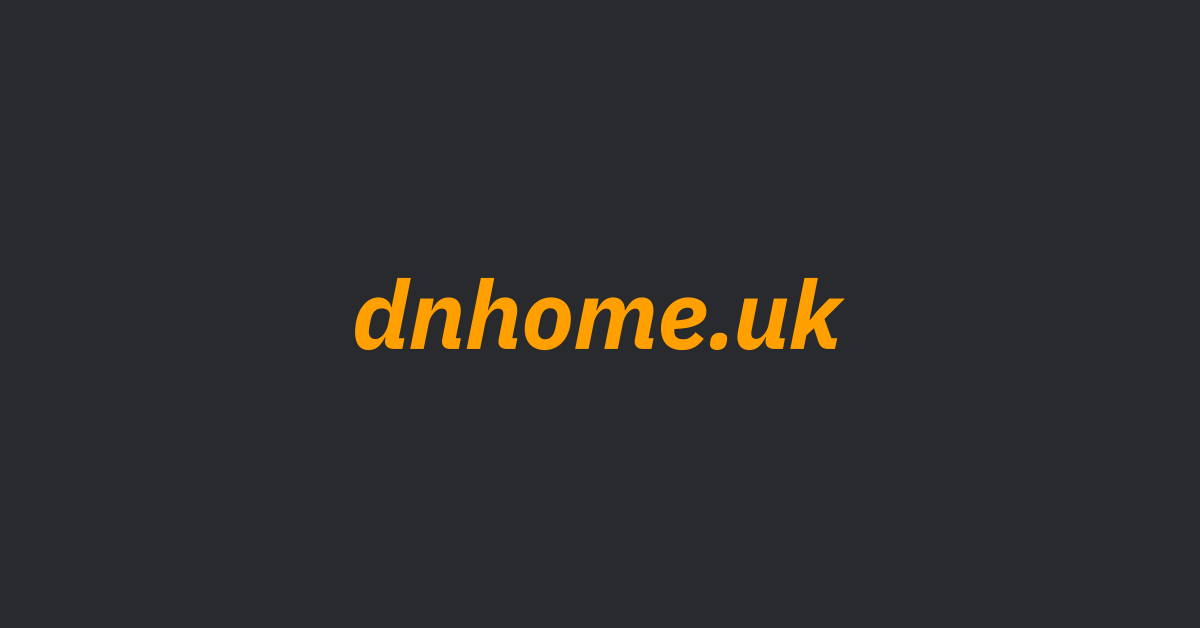
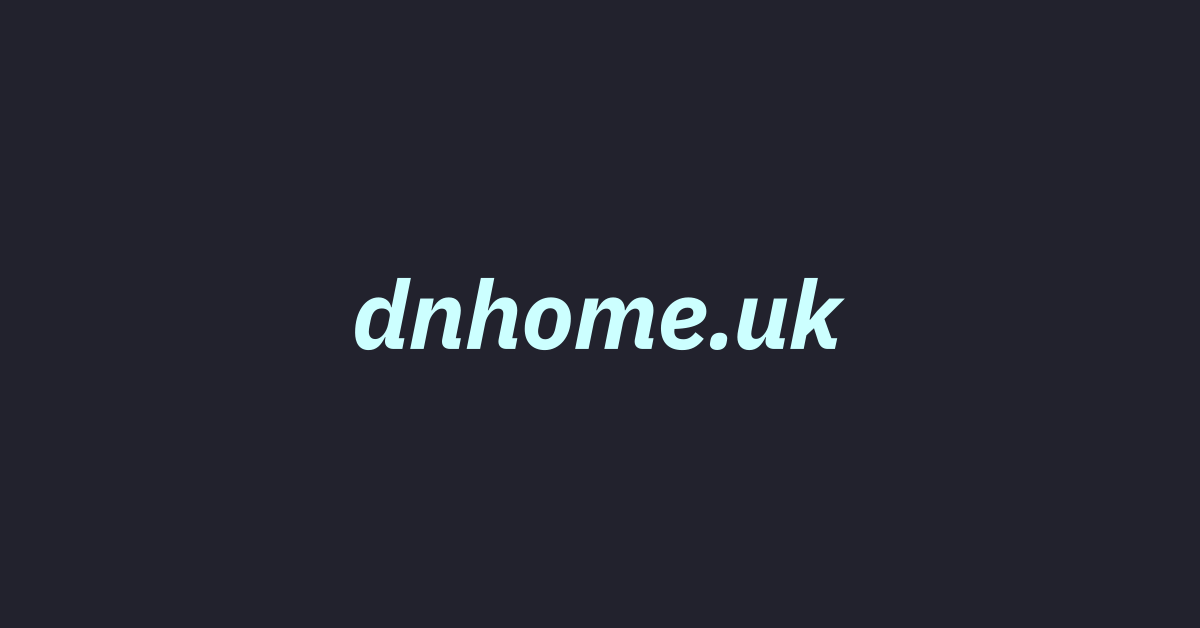
Change style

Changed region(s): [[0.2775, 0.4236, 0.7092, 0.5748]]

diff --git a/src/assets/css/style.css b/src/assets/css/style.css
@@ -1,65 +1,99 @@
 :root {
-    --bg-color: #292a2d;
-    --header-color: #fff;
-    --color: #fff;
-    --link-color: #C1CCEA;
-    --accent-color: #ffa000;
+    /* Light theme (default) */
+    --bg-color: #ccffff;
+    --header-color: #222;
+    --color: #222;
+    --selection-color: #222;
+    --selection-bg-color: #ffff99;
+}
+/* Use dark theme if browser requests it */
+@media (prefers-color-scheme: dark) {
+    :root {
+        /* Dark theme */
+        --bg-color: #222;
+        --header-color: #ccffff;
+        --color: #ccffff;
+        --selection-color: #222;
+        --selection-bg-color: #ff9999;
+    }
+}
+html,body {
+    height: 100%;
 }
 body {
     background-color: var(--bg-color);
-    font-size: 1rem;
-    font-family: sans-serif;
     color: var(--color);
-    margin: 0.5em auto;
-}
-h1,h2,h3 {
-    font-weight: bold;
-    font-style: italic;
-    margin 2em 0;
-}
-h1 {
-    color: var(--accent-color);
-    font-size: 2rem;
-}
-h2 {
-    color: var(--header-color);
-    font-size: 1.5rem;
-}
-h3 {
-    color: var(--header-color);
-    font-size: 1.2rem;
-}
-img {
-    width: 100%;
-    display: block;
-}
-a {
-    color: var(--link-color);
-}
-p {
-    color: var(--color);
-    line-height: 1.4rem;
-}
-hr {
-    border-top: 1px solid var(--color);
-    border-bottom: none;
-    width: 100%;
-    margin: 2em auto;
-}
-footer {
-    background-color: var(--bg-color);
-    position: fixed;
-    bottom: 0;
-    padding: 0.25em 0.5em;
-    font-size: 0.7rem;
+    font-size: 0.9rem;
+    font-family: sans-serif, "Apple Color Emoji", "Segoe UI Emoji", "Segoe UI Symbol", "Noto Color Emoji";
+    display: flex;
+    flex-direction: column;
+    margin: 0 auto;
+    padding: 0;
 }
 #container {
     width: 40em;
     display: block;
-    margin: auto;
+    margin: 0 auto;
+    padding: 0;
+    flex: 1 0 auto;
 }
-/* Scale elements on smaller screens to prevent side-scrolling */
-@media only screen and (max-width: 42em) {
+h1,h2,h3,h4 {
+    font-weight: bold;
+    font-style: italic;
+    color: var(--header-color);
+    margin: 0;
+    padding: 1em 0;
+}
+h1 {
+    font-size: 2.6rem;
+}
+h2 {
+    font-size: 2rem;
+}
+h3 {
+    font-size: 1.8rem;
+}
+h4 {
+    font-size: 1.4rem;
+}
+img {
+    display: block;
+    margin: auto;
+    width: 100%;
+}
+a {
+    color: var(--color);
+    text-decoration: none;
+    border-bottom: 2px dotted var(--color);
+}
+a:hover {
+    background-color: var(--selection-bg-color);
+    color: var(--selection-color);
+    border-bottom: 2px dotted var(--selection-color);
+}
+p {
+}
+li {
+    padding: 0.25em;
+}
+hr {
+    border: none;
+    border-top: 2px dotted var(--color);
+    margin: 2em 0 1em 0;
+}
+footer {
+    background-color: var(--bg-color);
+    bottom: 0;
+    left: 0;
+    padding: 1em 1em;
+    flex: 0 0 auto;
+    font-size: 0.7rem;
+}
+::selection {
+    background: var(--selection-bg-color);
+    color: var(--selection-color);
+}
+@media only screen and (max-width: 40em) {
     #container {
         width: 96%;
     }
